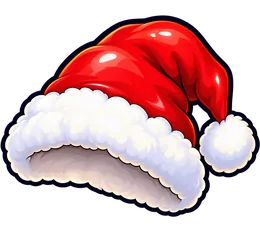
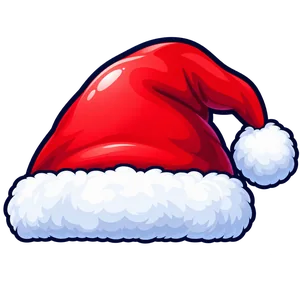
כובע סנטה חדש (#118)
* שותף-מחשב לא חובה + סיכום תור עם כל הניחושים של הקבוצה

- שותף-מחשב נוסף אוטומטית רק לשחקן יחיד; עם 2+ שחקנים - לבחירתכם
- בסיכום התור: מתחת לכל מילה כל הניחושים של חברי הקבוצה

Claude-Session: https://claude.ai/code/session_01Awkxe4FKvFZfySLX3VZywu

* ביטול רשימת הניחושים בסיכום התור

Claude-Session: https://claude.ai/code/session_01Awkxe4FKvFZfySLX3VZywu

* המחשב משחק מתוכן מוכן מראש: 300 קלפים, רמזים ומילות קשר — כמעט בלי עלות AI

- cards.js: 300 מילים, 9 אפשרויות מסודרות מהמבלבלת ביותר, 8 רמזים ו-15-25 מילות קשר לכל מילה
- המחשב טומן מוקשים, מסביר ומנחש בתור שלו בלי לקרוא ל-AI
- המחשב-מנחש מזהה רמזים לפי מילות הקשר; AI רק כגיבוי, עד 10 קריאות למשחק ו-40 ליום
- מצב מול המחשב עובד גם בלי מפתח AI
- בדיקת המילה ברמז: מילה קצרה (קוף, שף) נבדקת כמילה שלמה

Claude-Session: https://claude.ai/code/session_01Awkxe4FKvFZfySLX3VZywu

* רמות קושי אמיתיות: 410 מילים — 163 קל, 137 בינוני, 110 קשה

- דירוג מחדש של כל המילים הקיימות לפי הגדרה ברורה לכל רמה
- 110 מילים קשות חדשות, עם אפשרויות, רמזים ומילות קשר

Claude-Session: https://claude.ai/code/session_01Awkxe4FKvFZfySLX3VZywu

* מרוץ ל-20, בונוסים, סיבוב אחרון כפול, מוות פתאומי; תור מחשב מיידי; תיקון בחירת מוקשים

- ניצחון: הראשונים ל-20 נקודות (ניתן לשינוי). אם אף קבוצה לא הגיעה: הסיבוב האחרון כפול, ותיקו = מוות פתאומי (מילה אחת לכל קבוצה, הכי מהירים מנצחים)
- בונוסים: ניחוש ב-10 שניות +1, כל רצף של 3 נכונות +1
- מול המחשב: התור של המחשב מוצג מיד כתוצאה, בלי לחכות ובלי לבחור לו מוקשים
[…]

diff --git a/mokesh-vercel/index.html b/mokesh-vercel/index.html
@@ -442,7 +442,7 @@ html.kb .startbar{position:static;background:none}
 .tlogo .tltxt{position:absolute;left:0;right:0;bottom:2%;text-align:center;font-size:clamp(70px,27vw,112px);transform:rotate(-4deg)}
 .tlogo.sm{width:min(52%,200px)}.tlogo.sm .tltxt{font-size:64px}.ilogo.tlogo{width:min(46vw,190px)}.ilogo.tlogo .tltxt{font-size:62px}
 .homeblast .boomwrap.hboom .boomtxt{font-size:72px}
-.av.hatted{position:relative;overflow:visible}.av.hatted>img:first-child,.av.hatted>.cav{border-radius:50%}.avhat{position:absolute;width:72%!important;height:auto!important;top:-30%;left:-10%;transform:rotate(-20deg);pointer-events:none;filter:drop-shadow(0 2px 0 rgba(21,16,43,.5))}.sset{position:relative}.sprof .av.hatted{margin-top:14px}
+.av.hatted{position:relative;overflow:visible}.av.hatted>img:first-child,.av.hatted>.cav{border-radius:50%}.avhat{position:absolute;width:72%!important;height:auto!important;top:-30%;left:-10%;transform:rotate(-20deg);pointer-events:none;filter:drop-shadow(0 2px 0 rgba(21,16,43,.5))}.sset{position:relative}html[data-theme=xmas] .avhat{width:84%!important;top:-34%;left:8%;transform:rotate(-6deg)}.sprof .av.hatted{margin-top:14px}
 .logohat{position:absolute;width:118px;top:58px;left:calc(50% - 168px);transform:rotate(-22deg);z-index:2;pointer-events:none;filter:drop-shadow(0 5px 0 rgba(21,16,43,.5))}
 .decor{position:fixed;inset:0;z-index:0;pointer-events:none;overflow:hidden}.decor i{position:absolute;display:block;opacity:.22;color:#fff;animation:dfloat 7s ease-in-out infinite alternate}.decor i svg{width:100%;height:auto;display:block}
 .decor.halloween i{color:#07020D;opacity:.85}.decor.xmas i{color:#fff;opacity:.55;animation:dsnow 9s linear infinite}@keyframes dsnow{from{transform:translateY(-30px) rotate(0)}to{transform:translateY(40px) rotate(180deg)}}.decor.neon i{color:var(--yellow);opacity:.35;filter:drop-shadow(0 0 6px var(--yellow))}.decor.gold i{color:var(--yellow);opacity:.3}.decor.jungle i{color:#0A5A32;opacity:.5}.decor.summer i{color:#fff;opacity:.25}.decor.bubble i{color:#fff;opacity:.3}
@@ -899,7 +899,7 @@ const THEMES=[
  {k:'gold',n:'שחור זהב',a:{logo:'themes/gold/logo.webp',boomt:'themes/gold/boomt.webp',bomb:'themes/gold/bomb.webp',ok:'themes/gold/ok.webp',bg:'themes/gold/bg.webp',bgSize:'420px',tint:'rgba(10,8,12,.35)'},v:{'--q1':'#C79A3B','--q2':'#F4D58A','--q-ink':'#16120A','--i1':'#E9C46A','--i2':'#F4A261','--i3':'#CDE77F','--b1':'#FFF3C4F2','--b2':'#E9C46AE6','--b3':'#C79A3BD1','--b4':'#17151CB3','--b5':'#0B0A0EA6','--ink':'#16120A','--glow':'rgba(233,196,106,.22)','--bg':'#17151C','--bg-deep':'#0B0A0E','--yellow':'#E9C46A','--yellow-d':'#C79A3B','--orange':'#F4A261','--cyan':'#7FD3E6','--pink':'#F28BB0','--lime':'#CDE77F','--paper':'#FAF5EA','--soft':'#6A6152','--trap-bg':'#B3261E','--ok-bg':'#2D6A4F','--boom-f':'sepia(.35) saturate(.9)'}},
  {k:'xmas',n:'חג המולד',a:{logo:'themes/xmas/logo.webp',boomt:'themes/xmas/boomt.webp',bomb:'themes/xmas/bomb.webp',ok:'themes/xmas/ok.webp',hat:'themes/xmas/hat.webp',bg:'themes/xmas/bg.webp',bgSize:'340px',tint:'rgba(7,40,22,.68)'},v:{'--bg':'#0E5A3A','--bg-deep':'#073823','--yellow':'#FFD54A','--yellow-d':'#E2B21E','--orange':'#FF8A3D','--cyan':'#7FD8FF','--pink':'#E8384F','--lime':'#B6E36B','--paper':'#FFF8EC','--trap-bg':'#C8102E','--ok-bg':'#1F8A4C','--glow':'rgba(255,255,255,.28)','--q1':'#E8384F','--q2':'#FF8A3D','--i1':'#E8384F','--i2':'#7FD8FF','--i3':'#FFD54A','--b1':'#FFFFFFF2','--b2':'#FFD54AE6','--b3':'#E8384FD1','--b4':'#0E5A3AB3','--b5':'#073823A6','--fx1':'#FFFFFF','--fx2':'#FFD54A','--fx3':'#E8384F'}}];
 // תמונות של הערכה (פצצה, פיצוץ, ניחוש נכון, כובע, רקע). בלי תמונה — התמונה הרגילה של המשחק
-const TA=n=>{const t=THEMES[themeOf(A&&A.S)];return t.a&&t.a[n]?t.a[n]+'?v=6':ASSETS[n]||'';};const themeHas=n=>{const t=THEMES[themeOf(A&&A.S)];return !!(t.a&&t.a[n]);};
+const TA=n=>{const t=THEMES[themeOf(A&&A.S)];return t.a&&t.a[n]?t.a[n]+'?v=7':ASSETS[n]||'';};const themeHas=n=>{const t=THEMES[themeOf(A&&A.S)];return !!(t.a&&t.a[n]);};
 // פיצוץ: לתמונה של ערכה אין טקסט — כותבים "בום!" מעליה
 function boomImg(cls){if(themeHas('boomt'))return `<img class="${cls}" src="${TA('boomt')}" alt="בום!">`;return themeHas('boom')?`<span class="boomwrap ${cls}"><img src="${TA('boom')}" alt=""><span class="boomtxt">${fxText('בום!')}</span></span>`:`<img class="${cls}" src="${ASSETS.boom}" alt="בום!">`;}
 // כיתוב מאויר (כמו בלוגו): קו מתאר עבה, עומק תלת-ממדי ומילוי בצבעי הערכה
